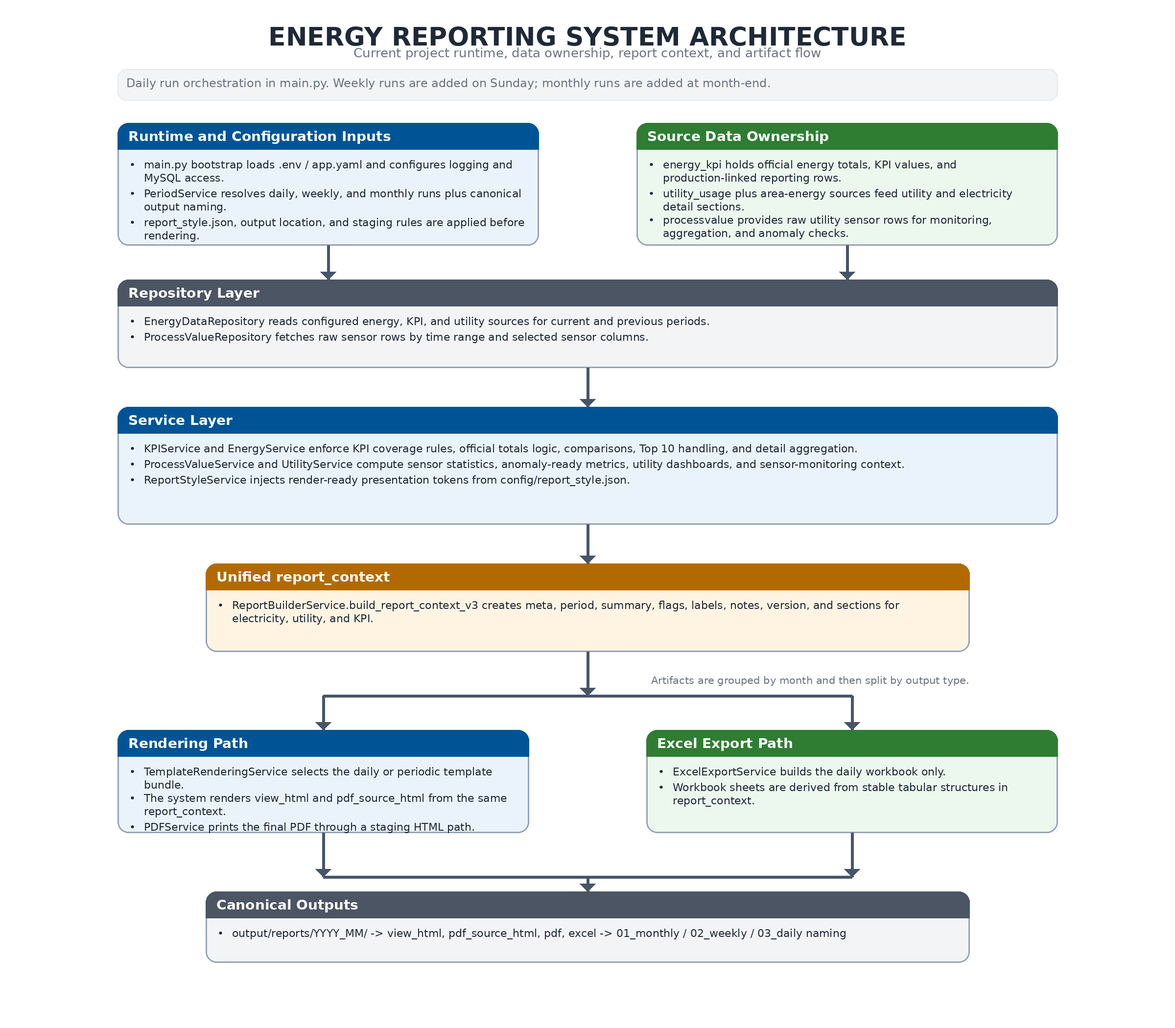
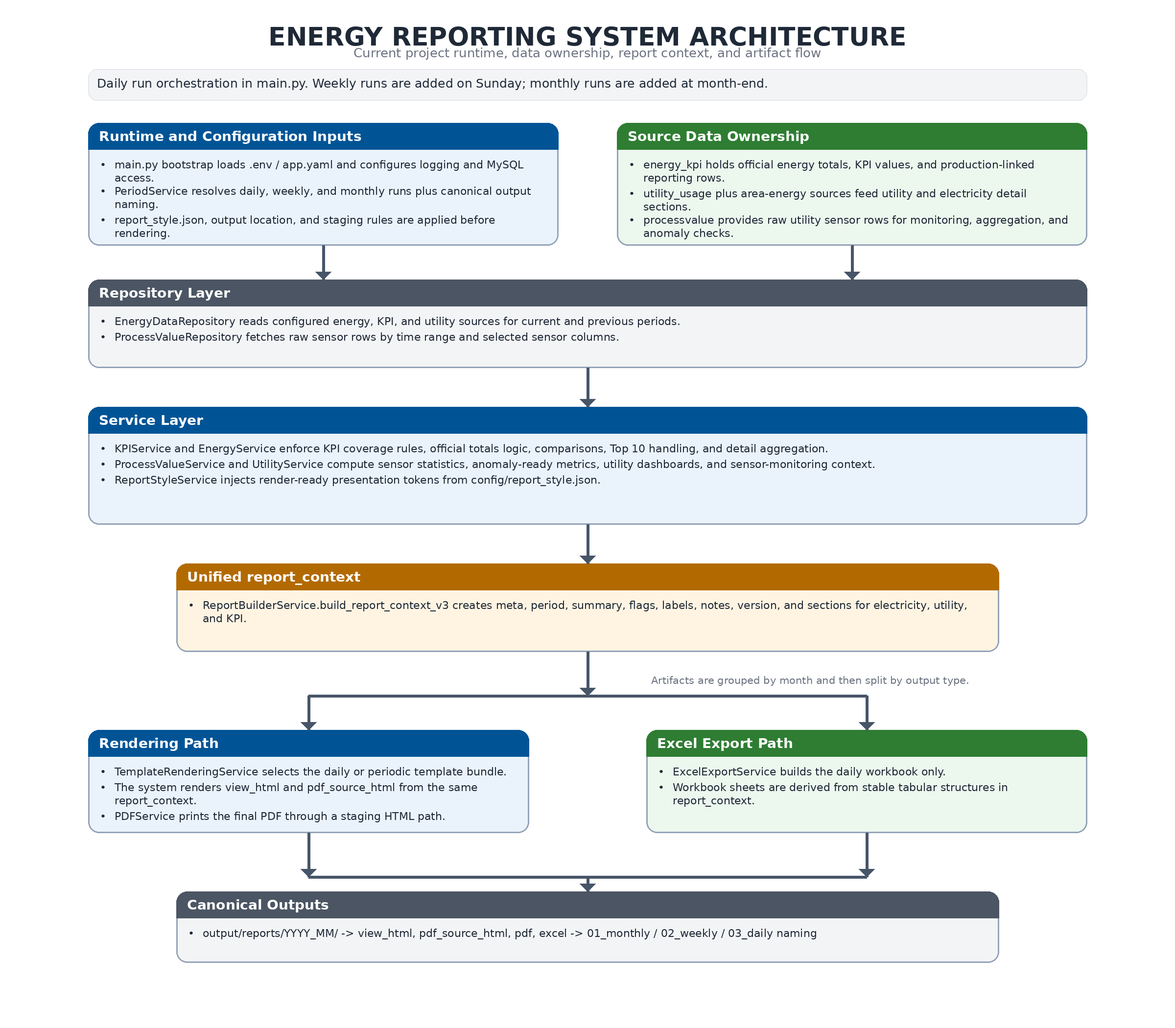
docs(latex): fix targeted review issues

diff --git a/docs/latex/templates/project_technical_documentation_template/chapter_document_metadata_revision.tex b/docs/latex/templates/project_technical_documentation_template/chapter_document_metadata_revision.tex
@@ -37,7 +37,7 @@ Bảng \ref{tab:document_metadata} là baseline metadata cho bộ technical manu
 		Project name & Energy Consumption Reporting System \\ \hline
 		Document type & Project technical manual / engineering reference document \\ \hline
 		Document scope & Architecture, data sources, repository/service mapping, business rules, KPI rules, output structure, release workflow, deployment and operations, scheduling, troubleshooting, glossary, and naming conventions \\ \hline
-		Current document version & \texttt{v0.21-draft} \\ \hline
+		Current document version & \texttt{v0.22-draft} \\ \hline
 		Document status & Internal review copy \\ \hline
 		Primary owner / author & Tuyen Tran \\ \hline
 		Reviewer & Reviewer assignment pending \\ \hline
@@ -101,37 +101,45 @@ Luồng này không cần quá nặng ở giai đoạn draft, nhưng nên tồn 
 
 Bảng \ref{tab:revision_history} là baseline revision history của bộ technical manual hiện tại.
 
-\begin{table}[htbp]
-	\centering
-	\renewcommand{\arraystretch}{1.3}
-	\caption{Technical manual revision history baseline}
-	\label{tab:revision_history}
-	\begin{tabularx}{\linewidth}{|>{\RaggedRight\arraybackslash}p{2.0cm}|>{\RaggedRight\arraybackslash}p{2.0cm}|>{\RaggedRight\arraybackslash}p{2.2cm}|>{\RaggedRight\arraybackslash}X|}
-		\hline
-		\textbf{Version} & \textbf{Date} & \textbf{Status} & \textbf{Change Summary} \\ \hline
-		\texttt{v0.1-draft} & 2026-05-11 & Draft baseline & Đổi naming của LaTeX subsystem sang project technical documentation, chuẩn hóa style/workflow, sửa .gitignore cho LaTeX source/output, và xác lập technical PDF baseline. \\ \hline
-		\texttt{v0.2-draft} & 2026-05-11 & Draft baseline & Refactor chapter mẫu sang project overview, thay placeholder diagrams bằng sơ đồ kiến trúc và data flow thật của project. \\ \hline
-		\texttt{v0.3-draft} & 2026-05-11 & Draft baseline & Thêm chapter Business Rules / KPI Rules, chapter Output Structure + Release / Troubleshooting, và chapter Data Sources + Repository / Service Mapping. \\ \hline
-		\texttt{v0.4-draft} & 2026-05-11 & Draft review baseline & Thêm chapter Document Metadata và Revision History, chuẩn hóa versioning convention, role mapping, approval flow, và change log policy cho technical manual. \\ \hline
-		\texttt{v0.5-draft} & 2026-05-11 & Draft review baseline & Dọn front matter và back matter legacy placeholders, chèn corporate cover background, và chuẩn hóa header/footer cùng divider lines cho toàn bộ technical PDF. \\ \hline
-		\texttt{v0.6-draft} & 2026-05-11 & Draft review baseline & Thêm phụ lục Glossary và Naming Conventions để chuẩn hóa thuật ngữ hệ thống, artifact families, output naming, internal keys, và naming guardrails cho technical manual. \\ \hline
-		\texttt{v0.7-draft} & 2026-05-11 & Internal review copy & Thực hiện pass final docs polish và handover-readiness review: dọn các placeholder template còn sót, thay wording reviewer/approval theo hướng reviewable, và bổ sung current handover-readiness snapshot cho technical manual. \\ \hline
-		\texttt{v0.8-draft} & 2026-05-11 & Internal review copy & Chỉnh layout theo feedback review: tách và wrap các path dài ở trang kiểm soát tài liệu, chuyển note/callout sang banner style có title bar, siết lại khoảng cách header-to-content, và cập nhật style/workflow rules để các lần chỉnh sau giữ cùng convention. \\ \hline
-		\texttt{v0.9-draft} & 2026-05-11 & Internal review copy & Chuyển technical PDF sang screen-first layout: dùng margins trái/phải đối xứng và bỏ twoside spread behavior để header/footer không còn so le. \\ \hline
-		\texttt{v0.10-draft} & 2026-05-11 & Internal review copy & Giảm rủi ro table formatting bằng cách quay về direct tabularx/tabular thay cho custom hybrid wrappers, đồng thời chỉnh lại flowchart connectors sang đường thẳng hoặc chữ L để PDF review sạch và dễ nhìn hơn trên màn hình. \\ \hline
-		\texttt{v0.11-draft} & 2026-05-11 & Internal review copy & Bổ sung deployment guidance cho máy mới sau khi clone project, đồng thời thêm hướng dẫn systemd service + timer chạy ETL theo lịch cố định 23:00 để technical manual và runbook dùng được cho handover vận hành. \\ \hline
-		\texttt{v0.12-draft} & 2026-05-11 & Internal review copy & Thêm hai sample unit files thật trong repo tại \texttt{deploy/systemd/} để việc copy sang \texttt{/etc/systemd/system/} nhanh hơn, đồng thời đồng bộ lại deployment runbook và technical manual theo baseline triển khai này. \\ \hline
-		\texttt{v0.13-draft} & 2026-05-11 & Internal review copy & Bổ sung helper script \texttt{deploy/systemd/install\_systemd\_units.sh} để backup unit cũ nếu có, copy sample service/timer, reload \texttt{systemd}, enable timer, và giảm thao tác tay khi triển khai host mới. \\ \hline
-		\texttt{v0.14-draft} & 2026-05-11 & Internal review copy & Điều chỉnh deployment docs theo hướng operator-first: thêm một block terminal duy nhất để ghi \texttt{config/.env} bằng copy-paste, chỉ yêu cầu thay các giá trị host-specific như MySQL credentials và output paths thay vì mở file sửa tay từng dòng. \\ \hline
-		\texttt{v0.15-draft} & 2026-05-11 & Internal review copy & Tách technical manual thành các chapter vận hành rõ ràng hơn: giữ output/release ở một chapter riêng, thêm chapter \textit{Deployment and Operations}, và tách troubleshooting ra thành chapter độc lập để handover/operator lookup nhanh hơn. \\ \hline
-		\texttt{v0.16-draft} & 2026-05-11 & Internal review copy & Mở rộng chapter \textit{Deployment and Operations} theo hướng operator-first end-to-end: thêm full bootstrap flow cho host mới, gồm prepare host, clone + venv, paste-ready \texttt{config/.env}, manual smoke, cài \texttt{systemd} bằng helper, và block xác nhận sau cài đặt. \\ \hline
-		\texttt{v0.17-draft} & 2026-05-11 & Internal review copy & Polish lại table và page chrome theo feedback review: bổ sung top border rõ ràng cho các bảng có viền, chuyển các table path cells sang dạng wrap an toàn, và siết lại template spacing giữa header-content cùng content-footer để PDF screen review gọn và ổn định hơn. \\ \hline
-		\texttt{v0.18-draft} & 2026-05-11 & Internal review copy & Chuẩn hóa thêm vertical rhythm ở mức template: tinh chỉnh section/subsection spacing, chapter-after spacing, float spacing, và caption spacing để nhịp giữa paragraph, section title, và table title đều tay hơn trong screen-review PDF. \\ \hline
-		\texttt{v0.19-draft} & 2026-05-11 & Internal review copy & Thực hiện một pass chuyên biệt cho list rhythm: chuẩn hóa global \texttt{enumitem} spacing cho enumerate/itemize và cập nhật workflow/style rules để paragraph-to-list cùng list-to-paragraph transitions ổn định hơn trên toàn manual. \\ \hline
-		\texttt{v0.20-draft} & 2026-05-11 & Internal review copy & Thực hiện pass chuyên biệt cho float placement rhythm: nới float placement từ ép cứng \texttt{h} sang \texttt{htbp} cho tables/figures thường, đồng thời thêm shared float-placement rules và tinh chỉnh float spacing để nhịp quanh paragraph, table, và figure ổn định hơn. \\ \hline
-		\texttt{v0.21-draft} & 2026-05-11 & Internal review copy & Chuẩn hóa chapter opening rhythm bằng shared helper cho block mở chương \textit{Mục tiêu chương}, giảm nhẹ khoảng sau chapter title, và cập nhật workflow/style rules để nhịp chapter title $\rightarrow$ lead block $\rightarrow$ first section được kiểm soát nhất quán ở mức template. \\ \hline
-	\end{tabularx}
-\end{table}
+\setlength{\LTleft}{0pt}
+\setlength{\LTright}{0pt}
+\renewcommand{\arraystretch}{1.25}
+\begin{longtable}{|>{\RaggedRight\arraybackslash}p{1.7cm}|>{\RaggedRight\arraybackslash}p{1.6cm}|>{\RaggedRight\arraybackslash}p{2.2cm}|>{\RaggedRight\arraybackslash}p{6.1cm}|}
+	\caption{Technical manual revision history baseline}\label{tab:revision_history}\\
+	\hline
+	\textbf{Version} & \textbf{Date} & \textbf{Status} & \textbf{Change Summary} \\ \hline
+	\endfirsthead
+	\caption[]{Technical manual revision history baseline (continued)}\\
+	\hline
+	\textbf{Version} & \textbf{Date} & \textbf{Status} & \textbf{Change Summary} \\ \hline
+	\endhead
+	\hline
+	\endfoot
+	\hline
+	\endlastfoot
+	\texttt{v0.1-draft} & 2026-05-11 & Draft baseline & Đổi naming của LaTeX subsystem sang project technical documentation, chuẩn hóa style/workflow, sửa .gitignore cho LaTeX source/output, và xác lập technical PDF baseline. \\ \hline
+	\texttt{v0.2-draft} & 2026-05-11 & Draft baseline & Refactor chapter mẫu sang project overview, thay placeholder diagrams bằng sơ đồ kiến trúc và data flow thật của project. \\ \hline
+	\texttt{v0.3-draft} & 2026-05-11 & Draft baseline & Thêm chapter Business Rules / KPI Rules, chapter Output Structure + Release / Troubleshooting, và chapter Data Sources + Repository / Service Mapping. \\ \hline
+	\texttt{v0.4-draft} & 2026-05-11 & Draft review baseline & Thêm chapter Document Metadata và Revision History, chuẩn hóa versioning convention, role mapping, approval flow, và change log policy cho technical manual. \\ \hline
+	\texttt{v0.5-draft} & 2026-05-11 & Draft review baseline & Dọn front matter và back matter legacy placeholders, chèn corporate cover background, và chuẩn hóa header/footer cùng divider lines cho toàn bộ technical PDF. \\ \hline
+	\texttt{v0.6-draft} & 2026-05-11 & Draft review baseline & Thêm phụ lục Glossary và Naming Conventions để chuẩn hóa thuật ngữ hệ thống, artifact families, output naming, internal keys, và naming guardrails cho technical manual. \\ \hline
+	\texttt{v0.7-draft} & 2026-05-11 & Internal review copy & Thực hiện pass final docs polish và handover-readiness review: dọn các placeholder template còn sót, thay wording reviewer/approval theo hướng reviewable, và bổ sung current handover-readiness snapshot cho technical manual. \\ \hline
+	\texttt{v0.8-draft} & 2026-05-11 & Internal review copy & Chỉnh layout theo feedback review: tách và wrap các path dài ở trang kiểm soát tài liệu, chuyển note/callout sang banner style có title bar, siết lại khoảng cách header-to-content, và cập nhật style/workflow rules để các lần chỉnh sau giữ cùng convention. \\ \hline
+	\texttt{v0.9-draft} & 2026-05-11 & Internal review copy & Chuyển technical PDF sang screen-first layout: dùng margins trái/phải đối xứng và bỏ twoside spread behavior để header/footer không còn so le. \\ \hline
+	\texttt{v0.10-draft} & 2026-05-11 & Internal review copy & Giảm rủi ro table formatting bằng cách quay về direct tabularx/tabular thay cho custom hybrid wrappers, đồng thời chỉnh lại flowchart connectors sang đường thẳng hoặc chữ L để PDF review sạch và dễ nhìn hơn trên màn hình. \\ \hline
+	\texttt{v0.11-draft} & 2026-05-11 & Internal review copy & Bổ sung deployment guidance cho máy mới sau khi clone project, đồng thời thêm hướng dẫn systemd service + timer chạy ETL theo lịch cố định 23:00 để technical manual và runbook dùng được cho handover vận hành. \\ \hline
+	\texttt{v0.12-draft} & 2026-05-11 & Internal review copy & Thêm hai sample unit files thật trong repo tại \texttt{deploy/systemd/} để việc copy sang \texttt{/etc/systemd/system/} nhanh hơn, đồng thời đồng bộ lại deployment runbook và technical manual theo baseline triển khai này. \\ \hline
+	\texttt{v0.13-draft} & 2026-05-11 & Internal review copy & Bổ sung helper script \texttt{deploy/systemd/install\_systemd\_units.sh} để backup unit cũ nếu có, copy sample service/timer, reload \texttt{systemd}, enable timer, và giảm thao tác tay khi triển khai host mới. \\ \hline
+	\texttt{v0.14-draft} & 2026-05-11 & Internal review copy & Điều chỉnh deployment docs theo hướng operator-first: thêm một block terminal duy nhất để ghi \texttt{config/.env} bằng copy-paste, chỉ yêu cầu thay các giá trị host-specific như MySQL credentials và output paths thay vì mở file sửa tay từng dòng. \\ \hline
+	\texttt{v0.15-draft} & 2026-05-11 & Internal review copy & Tách technical manual thành các chapter vận hành rõ ràng hơn: giữ output/release ở một chapter riêng, thêm chapter \textit{Deployment and Operations}, và tách troubleshooting ra thành chapter độc lập để handover/operator lookup nhanh hơn. \\ \hline
+	\texttt{v0.16-draft} & 2026-05-11 & Internal review copy & Mở rộng chapter \textit{Deployment and Operations} theo hướng operator-first end-to-end: thêm full bootstrap flow cho host mới, gồm prepare host, clone + venv, paste-ready \texttt{config/.env}, manual smoke, cài \texttt{systemd} bằng helper, và block xác nhận sau cài đặt. \\ \hline
+	\texttt{v0.17-draft} & 2026-05-11 & Internal review copy & Polish lại table và page chrome theo feedback review: bổ sung top border rõ ràng cho các bảng có viền, chuyển các table path cells sang dạng wrap an toàn, và siết lại template spacing giữa header-content cùng content-footer để PDF screen review gọn và ổn định hơn. \\ \hline
+	\texttt{v0.18-draft} & 2026-05-11 & Internal review copy & Chuẩn hóa thêm vertical rhythm ở mức template: tinh chỉnh section/subsection spacing, chapter-after spacing, float spacing, và caption spacing để nhịp giữa paragraph, section title, và table title đều tay hơn trong screen-review PDF. \\ \hline
+	\texttt{v0.19-draft} & 2026-05-11 & Internal review copy & Thực hiện một pass chuyên biệt cho list rhythm: chuẩn hóa global \texttt{enumitem} spacing cho enumerate/itemize và cập nhật workflow/style rules để paragraph-to-list cùng list-to-paragraph transitions ổn định hơn trên toàn manual. \\ \hline
+	\texttt{v0.20-draft} & 2026-05-11 & Internal review copy & Thực hiện pass chuyên biệt cho float placement rhythm: nới float placement từ ép cứng \texttt{h} sang \texttt{htbp} cho tables/figures thường, đồng thời thêm shared float-placement rules và tinh chỉnh float spacing để nhịp quanh paragraph, table, và figure ổn định hơn. \\ \hline
+	\texttt{v0.21-draft} & 2026-05-11 & Internal review copy & Chuẩn hóa chapter opening rhythm bằng shared helper cho block mở chương \textit{Mục tiêu chương}, giảm nhẹ khoảng sau chapter title, và cập nhật workflow/style rules để nhịp chapter title $\rightarrow$ lead block $\rightarrow$ first section được kiểm soát nhất quán ở mức template. \\ \hline
+	\texttt{v0.22-draft} & 2026-05-11 & Internal review copy & Sửa ba điểm review cụ thể: chuyển revision history sang longtable để không chạm footer, tăng độ đọc của diagrams/flowcharts bằng cách tận dụng bề ngang tốt hơn và wrap text gọn hơn trong box, đồng thời giữ text của Repository ownership mapping nằm đúng trong từng cột. \\ \hline
+\end{longtable}
 
 Mục đích của bảng này không phải thay thế Git, mà là giúp người đọc PDF hiểu mốc trưởng thành của tài liệu mà không cần truy cập repository ngay lập tức.
 

diff --git a/docs/latex/templates/project_technical_documentation_template/figure/generate_diagrams.py b/docs/latex/templates/project_technical_documentation_template/figure/generate_diagrams.py
@@ -32,8 +32,30 @@ def measure(draw, text, f):
     return box[2] - box[0], box[3] - box[1]
 
 
+def split_token_by_px(draw, token, f, max_width):
+    if measure(draw, token, f)[0] <= max_width:
+        return [token]
+    parts = []
+    current = ""
+    for ch in token:
+        trial = current + ch
+        if current and measure(draw, trial, f)[0] > max_width:
+            parts.append(current)
+            current = ch
+        else:
+            current = trial
+    if current:
+        parts.append(current)
+    return parts
+
+
 def wrap_by_px(draw, text, f, max_width):
-    words = text.split()
+    words = []
+    for token in text.split():
+        if measure(draw, token, f)[0] <= max_width:
+            words.append(token)
+        else:
+            words.extend(split_token_by_px(draw, token, f, max_width))
     lines = []
     current = ""
     for word in words:
@@ -83,7 +105,7 @@ def rounded_box(draw, rect, header_text, body_lines, header_color, body_color, h
 
 def note_bar(draw, rect, text, fill):
     draw.rounded_rectangle(rect, radius=18, fill=fill, outline="#E5E7EB", width=2)
-    draw_wrapped(draw, (rect[0] + 18, rect[1] + 14), text, font(24), rect[2] - rect[0] - 36, fill=COLORS["muted"])
+    draw_wrapped(draw, (rect[0] + 18, rect[1] + 14), text, font(25), rect[2] - rect[0] - 36, fill=COLORS["text"])
 
 
 def arrow_head(draw, tip, direction, color=COLORS["line"], size=16):
@@ -123,17 +145,17 @@ def make_architecture():
     y = 44
     y = centered_text(draw, y, "ENERGY REPORTING SYSTEM ARCHITECTURE", font(52, bold=True)) + 8
     y = centered_text(draw, y, "Current project runtime, data ownership, report context, and artifact flow", font(26), fill=COLORS["muted"]) + 24
-    note_bar(draw, (240, y, 2160, y + 64), "Daily run orchestration in main.py. Weekly runs are added on Sunday; monthly runs are added at month-end.", COLORS["light_gray"])
+    note_bar(draw, (180, y, 2220, y + 64), "Daily run orchestration in main.py. Weekly runs are added on Sunday; monthly runs are added at month-end.", COLORS["light_gray"])
 
     top_y = y + 110
-    left_top = (240, top_y, 1100, top_y + 250)
-    right_top = (1300, top_y, 2160, top_y + 250)
-    repo = (240, top_y + 320, 2160, top_y + 500)
-    service = (240, top_y + 580, 2160, top_y + 820)
-    unified = (420, top_y + 900, 1980, top_y + 1080)
-    left_out = (240, top_y + 1240, 1080, top_y + 1450)
-    right_out = (1320, top_y + 1240, 2160, top_y + 1450)
-    canonical = (420, top_y + 1570, 1980, top_y + 1715)
+    left_top = (180, top_y, 1140, top_y + 250)
+    right_top = (1260, top_y, 2220, top_y + 250)
+    repo = (180, top_y + 320, 2220, top_y + 500)
+    service = (180, top_y + 580, 2220, top_y + 820)
+    unified = (360, top_y + 900, 2040, top_y + 1080)
+    left_out = (180, top_y + 1240, 1080, top_y + 1450)
+    right_out = (1320, top_y + 1240, 2220, top_y + 1450)
+    canonical = (360, top_y + 1570, 2040, top_y + 1715)
 
     rounded_box(draw, left_top, "Runtime and Configuration Inputs", [
         "main.py bootstrap loads .env / app.yaml and configures logging and MySQL access.",
@@ -212,13 +234,13 @@ def make_flow():
     y = 42
     y = centered_text(draw, y, "REPORT GENERATION AND EXPORT DATA FLOW", font(50, bold=True)) + 8
     y = centered_text(draw, y, "Source retrieval, object building, rendering, and month-grouped artifact storage", font(26), fill=COLORS["muted"]) + 22
-    note_bar(draw, (200, y, 2200, y + 72), "Scheduling rule: daily always runs; weekly is added on Sunday; monthly is added at month-end when the anchor date is the last day of the month.", COLORS["note"])
+    note_bar(draw, (160, y, 2240, y + 72), "Scheduling rule: daily always runs; weekly is added on Sunday; monthly is added at month-end when the anchor date is the last day of the month.", COLORS["note"])
 
-    box_x1, box_x2 = 560, 2000
+    box_x1, box_x2 = 520, 2100
     box_w = box_x2 - box_x1
     start_y = y + 120
-    box_h = 120
-    gap = 76
+    box_h = 126
+    gap = 68
     colors = [
         (COLORS["blue"], COLORS["light_blue"]),
         (COLORS["gray"], COLORS["light_gray"]),
@@ -230,14 +252,14 @@ def make_flow():
         (COLORS["gray"], COLORS["light_gray"]),
     ]
     steps = [
-        ("1. Bootstrap runtime", "Initialize config, MySQL client, repositories, and runtime logging in main.py."),
-        ("2. Resolve periods for this run", "PeriodService determines anchor date, report types, and canonical export stems for the batch."),
-        ("3. Fetch source rows", "Repositories pull energy_kpi, utility_usage, area-energy, and selected sensor rows for current and comparison windows."),
-        ("4. Aggregate utility sensor statistics", "ProcessValueService and UtilityService compute min/avg/max, anomaly-ready metrics, and monitoring structures."),
-        ("5. Build domain objects", "EnergyService, KPIService, and UtilityService produce electricity, KPI, and utility blocks ready for rendering."),
-        ("6. Assemble unified report_context", "ReportBuilderService and ReportStyleService merge meta, sections, flags, labels, notes, and presentation tokens."),
-        ("7. Render and export artifacts", "Render view_html, render pdf_source_html, print PDF, and write the daily Excel workbook when the period is daily."),
-        ("8. Store canonical outputs", "Write files into output/reports/YYYY_MM/ and keep filename ordering with 01_monthly / 02_weekly / 03_daily prefixes."),
+        ("1. Bootstrap runtime", "Load config, MySQL client, repositories, and runtime logging."),
+        ("2. Resolve periods for this run", "Resolve anchor date, report types, and canonical export stems."),
+        ("3. Fetch source rows", "Fetch energy_kpi, utility_usage, area-energy, and selected sensor rows."),
+        ("4. Aggregate utility sensor statistics", "Compute sensor min/avg/max, monitoring stats, and anomaly-ready metrics."),
+        ("5. Build domain objects", "Build electricity, KPI, and utility domain objects for rendering."),
+        ("6. Assemble unified report_context", "Merge meta, sections, flags, labels, notes, and style tokens into report_context."),
+        ("7. Render and export artifacts", "Render view_html and pdf_source_html, print PDF, and write daily Excel when needed."),
+        ("8. Store canonical outputs", "Store files under output/reports/YYYY_MM/ with 01 / 02 / 03 prefixes."),
     ]
 
     rects = []
@@ -245,24 +267,23 @@ def make_flow():
         y1 = start_y + idx * (box_h + gap)
         rect = (box_x1, y1, box_x2, y1 + box_h)
         rects.append(rect)
-        rounded_box(draw, rect, title, [body], header_color, body_color, font(27, bold=True), font(22))
+        rounded_box(draw, rect, title, [body], header_color, body_color, font(28, bold=True), font(24))
 
     center_x = (box_x1 + box_x2) // 2
     for upper, lower in zip(rects, rects[1:]):
         polyline_arrow(draw, [(center_x, upper[3]), (center_x, lower[1])])
 
     # loop note with orthogonal connector to step 4
-    loop_box = (120, rects[3][1] + 24, 450, rects[6][3] - 24)
+    loop_box = (90, rects[3][1] + 24, 500, rects[6][3] - 24)
     draw.rounded_rectangle(loop_box, radius=18, fill="#F8FAFC", outline="#CBD5E1", width=3)
-    loop_text = "Loop for each\nscheduled period"
+    loop_text = "Per-period\nloop"
     tw, th = measure(draw, loop_text, font(26, bold=True))
-    draw.multiline_text((loop_box[0] + 40, loop_box[1] + 34), loop_text, font=font(26, bold=True), fill=COLORS["gray"], spacing=8)
-    draw.text((loop_box[0] + 40, loop_box[1] + 140), "Steps 4 to 7 repeat for each resolved daily, weekly, or monthly period in the run batch.", font=font(21), fill=COLORS["muted"])
+    draw.multiline_text((loop_box[0] + 36, loop_box[1] + 30), loop_text, font=font(27, bold=True), fill=COLORS["gray"], spacing=8)
     mid_y = (rects[3][1] + rects[6][3]) // 2
     draw.line([(loop_box[2] - 24, mid_y), (box_x1 - 70, mid_y)], fill=COLORS["line"], width=6)
     polyline_arrow(draw, [(box_x1 - 70, mid_y), (box_x1 - 70, rects[3][1] + 40), (box_x1, rects[3][1] + 40)])
 
-    note_bar(draw, (220, 1900, 2180, 1960), "Documentation PDF rebuild is a separate workflow and should be triggered only when documentation source files change.", COLORS["light_gray"])
+    note_bar(draw, (180, 1900, 2220, 1960), "Documentation PDF rebuild is a separate workflow and should be triggered only when documentation source files change.", COLORS["light_gray"])
     img.save(ROOT / "hinh1_2.png")
 
 

diff --git a/docs/latex/templates/project_technical_documentation_template/chapter_data_sources_mapping.tex b/docs/latex/templates/project_technical_documentation_template/chapter_data_sources_mapping.tex
@@ -113,11 +113,11 @@ Bảng \ref{tab:repository_mapping} tóm tắt mapping giữa data sources và r
 	\renewcommand{\arraystretch}{1.3}
 	\caption{Repository ownership mapping}
 	\label{tab:repository_mapping}
-	\begin{tabularx}{\linewidth}{|>{\RaggedRight\arraybackslash}p{3.0cm}|>{\RaggedRight\arraybackslash}p{3.3cm}|>{\RaggedRight\arraybackslash}X|}
+	\begin{tabularx}{\linewidth}{|>{\RaggedRight\arraybackslash}p{2.9cm}|>{\RaggedRight\arraybackslash}p{4.0cm}|>{\RaggedRight\arraybackslash}X|}
 		\hline
 		\textbf{Source} & \textbf{Repository Owner} & \textbf{Repository Responsibility} \\ \hline
-		\texttt{diode\_energy}, \texttt{ico\_energy}, \texttt{sakari\_energy}, \texttt{utility\_usage}, \texttt{energy\_kpi} & \texttt{EnergyDataRepository} & fetch daily rows, inspect columns, expose meter columns, and provide structured tabular data for higher-level services. \\ \hline
-		\texttt{processvalue} & \texttt{ProcessValueRepository} & fetch raw timestamped sensor rows for selected columns and time windows only. \\ \hline
+		\texttt{diode\_energy}, \texttt{ico\_energy}, \texttt{sakari\_energy}, \texttt{utility\_usage}, \texttt{energy\_kpi} & \parbox[t]{\linewidth}{\centering\small EnergyData\\Repository} & fetch daily rows, inspect columns, expose meter columns, and provide structured tabular data for higher-level services. \\ \hline
+		\texttt{processvalue} & \parbox[t]{\linewidth}{\centering\small ProcessValue\\Repository} & fetch raw timestamped sensor rows for selected columns and time windows only. \\ \hline
 	\end{tabularx}
 \end{table}
 

diff --git a/docs/latex/templates/project_technical_documentation_template/main.tex b/docs/latex/templates/project_technical_documentation_template/main.tex
@@ -54,6 +54,7 @@
 \usepackage{booktabs}
 \usepackage{array}
 \usepackage{tabularx}
+\usepackage{longtable}
 \usepackage{amsmath}
 \numberwithin{equation}{chapter}
 
@@ -99,6 +100,10 @@
 \setlength{\tabcolsep}{4.5pt}
 \AtBeginEnvironment{tabular}{\fontsize{11}{13}\selectfont}
 \AtBeginEnvironment{tabularx}{\fontsize{11}{13}\selectfont}
+\AtBeginEnvironment{longtable}{\fontsize{11}{13}\selectfont}
+\setlength{\LTcapwidth}{\textwidth}
+\setlength{\LTpre}{4pt}
+\setlength{\LTpost}{4pt}
 \newcommand{\TablePath}[1]{{\small\nolinkurl{#1}}}
 
 % ==================================================
@@ -111,7 +116,7 @@
 \newcommand{\DocumentTypeLabel}{TÀI LIỆU KỸ THUẬT DỰ ÁN}
 \newcommand{\ProjectName}{Energy Consumption Reporting System}
 \newcommand{\DocumentShortTitle}{Project Technical Manual}
-\newcommand{\DocumentVersionLabel}{v0.21-draft}
+\newcommand{\DocumentVersionLabel}{v0.22-draft}
 \newcommand{\DocumentStatusLabel}{Internal review copy}
 \newcommand{\DocumentOwnerLabel}{Tuyen Tran}
 \newcommand{\DocumentReviewerLabel}{Reviewer assignment pending}

diff --git a/docs/latex/templates/project_technical_documentation_template/chapter_project_overview.tex b/docs/latex/templates/project_technical_documentation_template/chapter_project_overview.tex
@@ -84,14 +84,14 @@ Hai hình dưới đây thể hiện kiến trúc hiện tại của hệ thốn
 
 \begin{figure}[htbp]
 	\centering
-	\includegraphics[width=0.8\textwidth]{figure/hinh1_1}
+	\includegraphics[width=\textwidth]{figure/hinh1_1}
 	\caption{System architecture of the automated energy reporting pipeline}
 	\label{fig:system_architecture}
 \end{figure}
 
 \begin{figure}[htbp]
 	\centering
-	\includegraphics[width=0.8\textwidth]{figure/hinh1_2}
+	\includegraphics[width=\textwidth]{figure/hinh1_2}
 	\caption{Report generation and export data flow for the current project runtime}
 	\label{fig:report_generation_flow}
 \end{figure}

diff --git a/docs/style/LATEX_STYLE_GUIDE.md b/docs/style/LATEX_STYLE_GUIDE.md
@@ -161,6 +161,7 @@ For this template's current screen-first PDF convention, prefer the simplest sta
 . if a bordered table is used, include the explicit top border line instead of relying on the first row only
 . prefer breakable text columns such as `RaggedRight`-style `p{}` / `X` columns over overflow-prone rigid text blocks
 . for long file paths or code-like strings inside table cells, prefer breakable forms such as `\nolinkurl{}` or a shared helper macro instead of raw unbreakable `\texttt{}`
+. when a history/audit table can exceed one page, prefer `longtable` so it breaks cleanly instead of drifting into footer space
 . prefer flexible float placement such as `htbp` for normal tables/figures instead of forcing `h` unless there is a very specific layout reason
 . avoid custom table wrapper environments unless there is a clear repeated need and they are proven stable
 . avoid heavy full-black spreadsheet grids
@@ -193,6 +194,8 @@ For flowcharts and architecture diagrams:
 . use straight or orthogonal connectors only
 . prefer vertical, horizontal, or L-shaped routing
 . avoid diagonal arrows unless there is a very strong reason
+. use page width intentionally so the diagram reads comfortably in screen-review PDF mode
+. ensure label/body text wraps inside each diagram box instead of looking clipped or shrunken
 
 
 

diff --git a/docs/workflows/latex_workflow.md b/docs/workflows/latex_workflow.md
@@ -97,11 +97,13 @@ For this template's current screen-first PDF workflow, verify that:
 - vertical rhythm between paragraph blocks, section titles, and table/figure captions feels consistent rather than accidental
 - paragraph-to-list and list-to-paragraph spacing feels consistent across chapters instead of tightening or opening unpredictably
 - paragraph-to-float and float-to-paragraph spacing feels consistent instead of leaving obvious holes
+- long history/revision tables break across pages cleanly instead of colliding with the footer area
 - bordered tables keep their explicit top border line
 - long file paths or code-like table cells wrap inside the table instead of clipping past the right edge
 - tables and figures are not over-forced into `h` placement when `htbp` would produce cleaner rhythm
 - table borders remain readable on screen without relying on fragile custom wrappers
 - flowchart connectors use straight or orthogonal routing instead of diagonal arrows
+- diagrams are large enough for screen review and their text stays wrapped inside the intended container boxes
 
 ---
 
